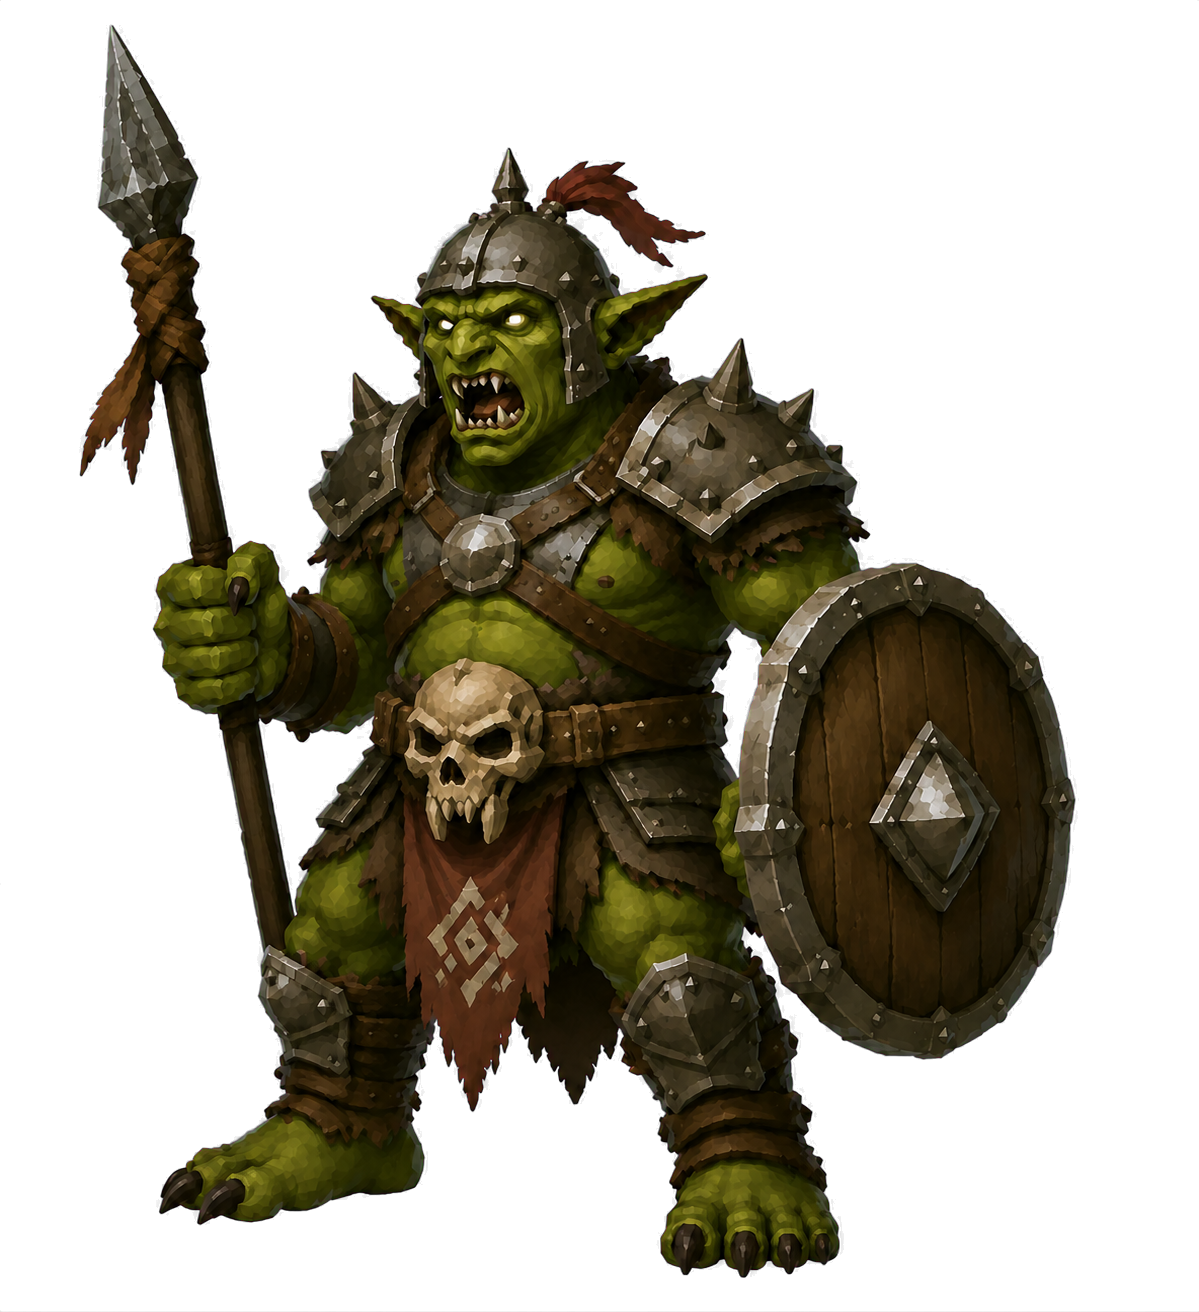
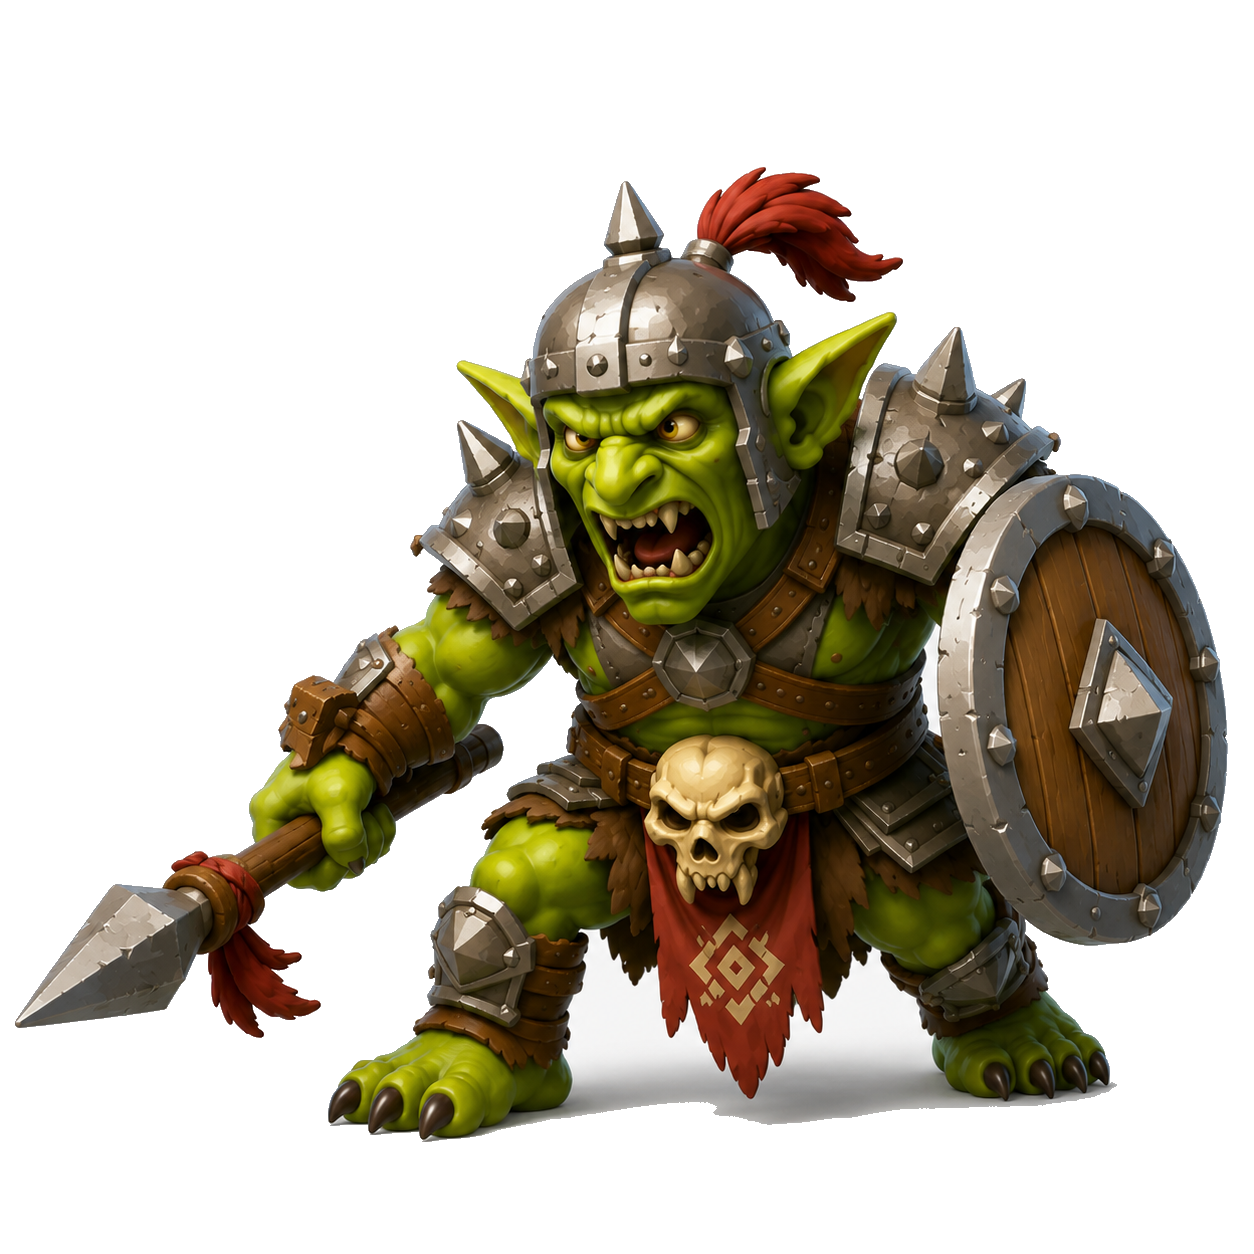
Update goblin camp monster artwork

diff --git a/monster-display-policy.js b/monster-display-policy.js
@@ -17,14 +17,14 @@
     irritableBoar: 'assets/boar-woods-irritable-boar.png?v=20260831-monster-style-v1',
     boarKing: 'assets/boar-woods-giant-tusk-boar-v2.png?v=20260831-monster-style-v1',
     goblin: 'assets/goblin-transparent.png',
-    goblinScout: 'assets/goblin-camp-scout-transparent.png?v=20260802-transparent-v1',
-    goblinWarrior: 'assets/goblin-camp-warrior-transparent.png?v=20260802-transparent-v1',
-    goblinSlinger: 'assets/goblin-camp-slinger-transparent.png?v=20260802-transparent-v1',
-    goblinShaman: 'assets/goblin-camp-shaman-transparent.png?v=20260802-transparent-v1',
-    goblinGuard: 'assets/goblin-camp-guard-transparent.png?v=20260802-transparent-v1',
-    goblinCaptain: 'assets/goblin-camp-captain-transparent.png?v=20260802-transparent-v1',
+    goblinScout: 'assets/goblin-camp-scout-transparent.png?v=20260831-monster-style-v1',
+    goblinWarrior: 'assets/goblin-camp-warrior-transparent.png?v=20260831-monster-style-v1',
+    goblinSlinger: 'assets/goblin-camp-slinger-transparent.png?v=20260831-monster-style-v1',
+    goblinShaman: 'assets/goblin-camp-shaman-transparent.png?v=20260831-monster-style-v1',
+    goblinGuard: 'assets/goblin-camp-guard-transparent.png?v=20260831-monster-style-v1',
+    goblinCaptain: 'assets/goblin-camp-captain-transparent.png?v=20260831-monster-style-v1',
     goblinTreasureChest: 'assets/goblin-treasure-chest.png?v=20260815-user-image-v1',
-    goblinHighChief: 'assets/goblin-camp-high-chief-transparent.png?v=20260802-transparent-v1',
+    goblinHighChief: 'assets/goblin-camp-high-chief-transparent.png?v=20260831-monster-style-v1',
     wolf: 'assets/forest-wolf.png',
     boar: 'assets/wild-boar.png',
     goblinOverlord: 'assets/goblin-transparent.png',
